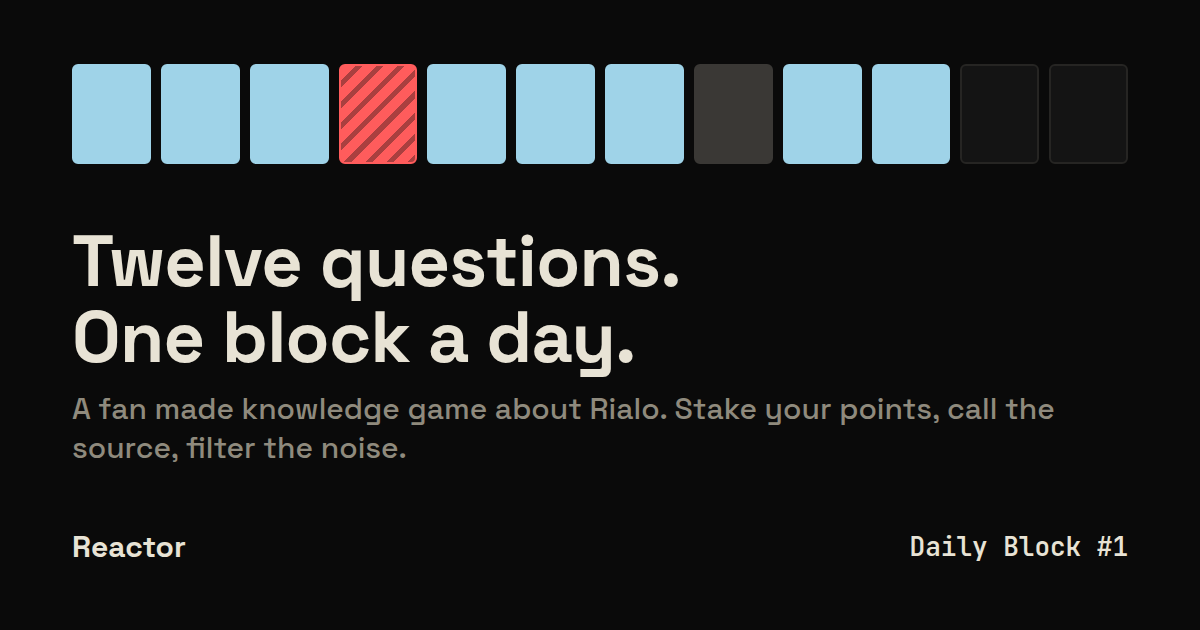
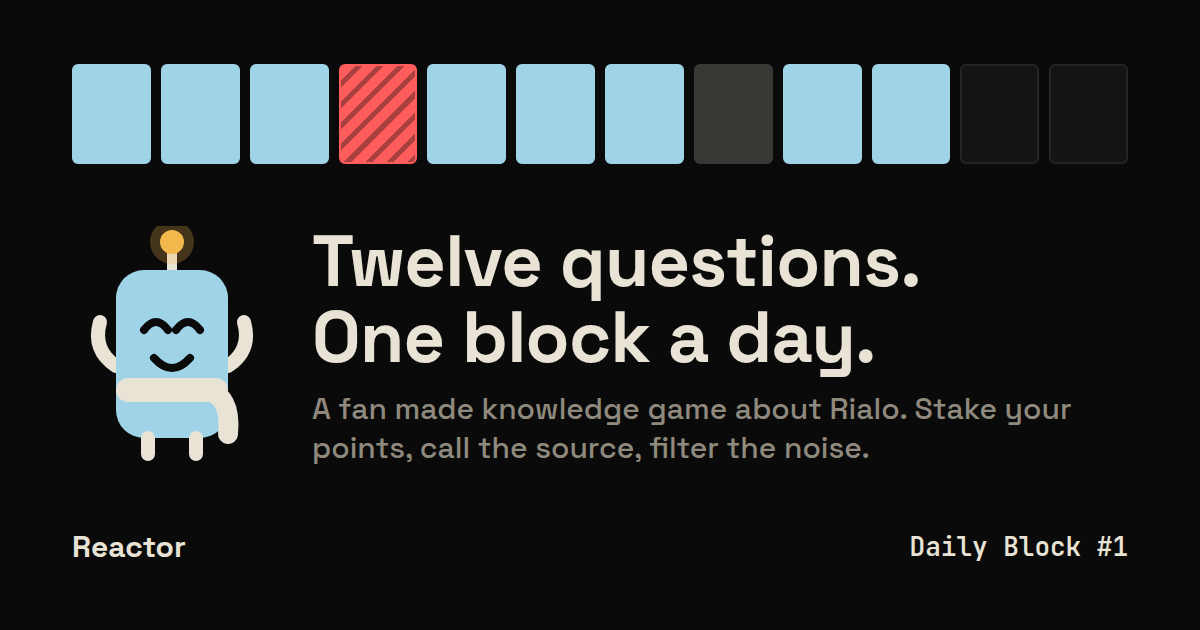
Kelvin, the mascot: a block cell come alive, on the home screen, the name dialog, the verdict sheet, the results and the share image

Changed region(s): [[0.0617, 0.3619, 0.8942, 0.754]]

diff --git a/src/app.js b/src/app.js
@@ -175,6 +175,34 @@
   $('theme-btn').onclick = () => applyTheme(document.documentElement.getAttribute('data-theme') === 'light' ? 'dark' : 'light');
   document.querySelectorAll('.lang button').forEach((b) => (b.onclick = () => { lang = b.dataset.lang; LS.set('lang', lang); applyLang(); if (!$('home').hidden) renderHome(); if (!$('atlas').hidden) renderAtlas(); }));
 
+
+  // ---------- Kelvin, the mascot ----------
+  // One cell of the Daily Block that came alive: glacier body like a landed transaction, a paper scarf for
+  // Subzero, rounded tube limbs, an antenna that lights up when a predicate turns true. Wrong answers turn it
+  // into the striped noise cell. Colours come from the theme tokens so it works in both themes.
+  function kelvin(mood) {
+    const paper = 'var(--paper)', ink = '#0a0a0a', glacier = '#9fd3e8', signal = '#ff5c5c', amber = '#f2b84b', faint = 'var(--faint)';
+    const noise = mood === 'noise', skip = mood === 'skip';
+    const bodyFill = noise ? signal : skip ? faint : glacier;
+    const body = `<rect x="22" y="22" width="56" height="84" rx="14" fill="${bodyFill}"/>`;
+    const stripes = noise ? `<clipPath id="kc"><rect x="22" y="22" width="56" height="84" rx="14"/></clipPath><g clip-path="url(#kc)" stroke="${ink}" stroke-width="4" opacity=".28"><path d="M10 40 l50 50 M10 60 l50 50 M10 80 l50 50 M30 20 l50 50 M50 20 l40 40"/></g>` : '';
+    let eyes;
+    if (mood === 'happy') eyes = `<path d="M36 52 q6 -8 12 0" stroke="${ink}" stroke-width="4" fill="none" stroke-linecap="round"/><path d="M52 52 q6 -8 12 0" stroke="${ink}" stroke-width="4" fill="none" stroke-linecap="round"/>`;
+    else if (noise) eyes = `<path d="M36 46 l10 10 M46 46 l-10 10 M54 46 l10 10 M64 46 l-10 10" stroke="${ink}" stroke-width="4" stroke-linecap="round"/>`;
+    else if (mood === 'think') eyes = `<rect x="36" y="44" width="9" height="13" rx="3" fill="${ink}"/><rect x="55" y="48" width="9" height="6" rx="3" fill="${ink}"/>`;
+    else if (mood === 'sleep') eyes = `<path d="M36 50 h10 M54 50 h10" stroke="${ink}" stroke-width="4" stroke-linecap="round"/>`;
+    else eyes = `<g class="k-eyes"><rect x="36" y="44" width="9" height="13" rx="3" fill="${ink}"/><rect x="55" y="44" width="9" height="13" rx="3" fill="${ink}"/></g>`;
+    const mouth = mood === 'happy' ? `<path d="M41 66 q9 10 18 0" stroke="${ink}" stroke-width="4" fill="none" stroke-linecap="round"/>` : noise ? `<path d="M42 70 q8 -7 16 0" stroke="${ink}" stroke-width="4" fill="none" stroke-linecap="round"/>` : mood === 'think' ? `<path d="M44 68 h10" stroke="${ink}" stroke-width="4" stroke-linecap="round"/>` : `<path d="M44 67 q6 4 12 0" stroke="${ink}" stroke-width="4" fill="none" stroke-linecap="round"/>`;
+    const scarf = `<rect x="22" y="76" width="56" height="12" rx="6" fill="${paper}"/><path d="M66 82 q14 2 12 22" stroke="${paper}" stroke-width="10" fill="none" stroke-linecap="round"/>`;
+    const antenna = `<path d="M50 22 v-10" stroke="${paper}" stroke-width="5" stroke-linecap="round"/><circle class="k-lamp" cx="50" cy="8" r="6" fill="${noise ? signal : mood === 'happy' ? amber : glacier}"/>${mood === 'happy' ? `<circle cx="50" cy="8" r="11" fill="${amber}" opacity=".25"/>` : ''}`;
+    const arms = mood === 'happy' ? `<path d="M22 70 q-12 -8 -8 -22" stroke="${paper}" stroke-width="7" fill="none" stroke-linecap="round"/><path d="M78 70 q12 -8 8 -22" stroke="${paper}" stroke-width="7" fill="none" stroke-linecap="round"/>`
+      : mood === 'think' ? `<path d="M22 62 q-12 4 -8 16" stroke="${paper}" stroke-width="7" fill="none" stroke-linecap="round"/><path d="M78 62 q10 6 -6 12" stroke="${paper}" stroke-width="7" fill="none" stroke-linecap="round"/>`
+      : `<path d="M22 62 q-12 6 -8 18" stroke="${paper}" stroke-width="7" fill="none" stroke-linecap="round"/><path d="M78 62 q12 6 8 18" stroke="${paper}" stroke-width="7" fill="none" stroke-linecap="round"/>`;
+    const legs = `<path d="M38 106 v8" stroke="${paper}" stroke-width="7" stroke-linecap="round"/><path d="M62 106 v8" stroke="${paper}" stroke-width="7" stroke-linecap="round"/>`;
+    const zz = mood === 'sleep' ? `<text x="80" y="30" font-family="JetBrains Mono,monospace" font-size="14" fill="${paper}">z</text><text x="88" y="18" font-family="JetBrains Mono,monospace" font-size="11" fill="${paper}">z</text>` : '';
+    return `<svg class="kelvin k-${mood}" viewBox="0 0 100 120" xmlns="http://www.w3.org/2000/svg" aria-hidden="true">${antenna}${arms}${body}${stripes}${scarf}${eyes}${mouth}${legs}${zz}</svg>`;
+  }
+
   // ---------- block strips ----------
   function drawBlock(el, cells, n, nowIndex) {
     el.innerHTML = '';
@@ -188,6 +216,7 @@
     const today = dayKeyOf(Date.now()), n = dailyNumber(today);
     $('daily-go').textContent = t('daily.play');
     drawBlock($('home-block'), [], DAILY_N, -1);
+    $('hero-kelvin').innerHTML = kelvin('idle');
     if (!me) { $('daily-sub').textContent = t('daily.noname', { n }); $('rankline').hidden = true; }
     else {
       $('daily-sub').textContent = t('daily.new', { n });
@@ -220,7 +249,7 @@
   $('home-link').onclick = (e) => { e.preventDefault(); stopTimer(); session = null; renderHome(); };
 
   // ---------- name ----------
-  function openName() { $('name-err').textContent = ''; $('name-input').value = me ? me.handle : ''; $('dlg-name').hidden = false; setTimeout(() => $('name-input').focus(), 50); return new Promise((res) => { nameResolve = res; }); }
+  function openName() { $('name-kelvin').innerHTML = kelvin('think'); $('name-err').textContent = ''; $('name-input').value = me ? me.handle : ''; $('dlg-name').hidden = false; setTimeout(() => $('name-input').focus(), 50); return new Promise((res) => { nameResolve = res; }); }
   let nameResolve = null;
   $('name-chip').onclick = () => openName();
   $('name-cancel').onclick = () => { $('dlg-name').hidden = true; if (nameResolve) nameResolve(false); };
@@ -346,6 +375,7 @@
   function showFeedbackText(q, rev, res) {
     const L = lang;
     const v = $('verdict'); v.className = 'verdict ' + (res.skipped ? '' : res.correct ? 'ok' : 'x');
+    $('verdict-kelvin').innerHTML = kelvin(res.skipped ? 'skip' : res.correct ? 'happy' : 'noise');
     $('verdict-text').textContent = res.skipped ? t('v.skip') : res.timeout ? t('v.timeout') : res.correct ? t('v.ok') : t('v.x');
     $('verdict-pts').textContent = res.skipped ? '' : res.gain ? '+' + fmt(res.gain) : res.penalty ? '−' + fmt(res.penalty) : '0';
     let why = rev.why[L];
@@ -460,6 +490,7 @@
     stopTimer(); session = null; board.cache = {};
     show('result');
     drawBlock($('result-block'), res.cells, res.n, -1);
+    $('result-kelvin').innerHTML = kelvin(res.correct >= 8 ? 'happy' : res.correct <= 3 ? 'noise' : 'idle');
     $('result-title').textContent = t('res.daily.title', { n: res.number });
     $('result-sub').textContent = t(res.rank ? 'res.daily.sub' : 'res.daily.sub.nr', { ok: res.correct, n: res.n });
     $('result-stats').innerHTML = stat(fmt(res.score), t('st.score')) + stat(res.bestStreak, t('st.streak')) + stat(mmss(res.timeMs), t('st.time'));
@@ -518,6 +549,7 @@
     if (isBest) LS.set('sprintBest', s.score);
     show('result');
     drawBlock($('result-block'), s.answers.map((a) => (a.correct ? 'ok' : 'x')), Math.max(12, s.answers.length), -1);
+    $('result-kelvin').innerHTML = kelvin(isBest && s.score > 0 ? 'happy' : ok >= s.answers.length / 2 ? 'idle' : 'noise');
     $('result-title').textContent = t('res.sprint.title') + (isBest && s.score > 0 ? ' · ' + t('res.sprint.best') : '');
     $('result-sub').textContent = t('res.sprint.sub', { answered: s.answers.length, ok });
     $('result-stats').innerHTML = stat(fmt(s.score), t('st.score')) + stat(s.bestStreak, t('st.streak')) + stat(fmt(Math.max(best, s.score)), lang === 'tr' ? 'en iyi' : 'best');
@@ -553,6 +585,7 @@
     const ok = s.answers.filter((a) => a.correct).length;
     show('result');
     drawBlock($('result-block'), s.cells, s.n, -1);
+    $('result-kelvin').innerHTML = kelvin(ok >= 7 ? 'happy' : 'think');
     $('result-title').textContent = t('res.atlas.title');
     $('result-sub').textContent = t('res.atlas.sub', { ok, n: s.n, topic: topicName(s.topic), pct: Math.round((100 * m) / all.length) });
     $('result-stats').innerHTML = stat(ok + '/' + s.n, t('st.correct')) + stat(m + '/' + all.length, lang === 'tr' ? 'öğrenilen' : 'mastered') + stat(s.bestStreak, t('st.streak'));

diff --git a/src/index.html b/src/index.html
@@ -176,6 +176,22 @@ table.board{width:100%;border-collapse:collapse;font-size:14px}
 .flash{animation:flash .4s}
 @keyframes flash{from{background:var(--flash)}}
 
+
+/* Kelvin */
+.herorow{display:flex;align-items:center;gap:14px}
+.kwrap{flex:0 0 auto;width:72px;height:86px}
+.kwrap.small{width:40px;height:48px}
+.kwrap svg{width:100%;height:100%;display:block}
+.k-idle{animation:bob 3.2s ease-in-out infinite}
+.k-happy{animation:hop .5s ease-out}
+.k-noise{animation:shake .35s}
+.k-idle .k-eyes{animation:blink 4.5s infinite}
+@keyframes bob{50%{transform:translateY(-3px)}}
+@keyframes hop{30%{transform:translateY(-8px)}}
+@keyframes blink{0%,94%,100%{transform:scaleY(1)}97%{transform:scaleY(.08)}}
+.k-eyes{transform-origin:50px 50px}
+.verdict{align-items:center}
+.verdict b{flex:1}
 /* result */
 .result{display:flex;flex-direction:column;gap:16px}
 .result h2{font-size:clamp(24px,6vw,30px)}
@@ -234,7 +250,7 @@ input.name{width:100%;min-height:46px;padding:10px 12px;border:1px solid var(--r
 
   <main id="home" class="hero">
     <div class="block" id="home-block" aria-hidden="true"></div>
-    <h1 data-t="home.title">Twelve questions. One block a day.</h1>
+    <div class="herorow"><div class="kwrap" id="hero-kelvin"></div><h1 data-t="home.title">Twelve questions. One block a day.</h1></div>
     <p class="sub mute" data-t="home.sub">Every question comes from Rialo's own posts and docs. Stake your points, call the source, filter the noise.</p>
     <p><a href="#" id="how-hero" class="howlink" data-t="how.link">How to play, in one minute</a></p>
     <div class="modes">
@@ -266,7 +282,7 @@ input.name{width:100%;min-height:46px;padding:10px 12px;border:1px solid var(--r
       <button class="life" id="life-handover" title="Handover"><svg viewBox="0 0 14 14" fill="none" stroke="currentColor" stroke-width="1.4"><path d="M1.5 7h8M7 4l3 3-3 3M11.5 2v10"/></svg><span data-t="life.handover">Handover</span></button>
     </div>
     <div class="feedback" id="feedback" hidden>
-      <div class="verdict" id="verdict"><b id="verdict-text"></b><span class="pts" id="verdict-pts"></span></div>
+      <div class="verdict" id="verdict"><span class="kwrap small" id="verdict-kelvin"></span><b id="verdict-text"></b><span class="pts" id="verdict-pts"></span></div>
       <p class="why" id="fb-why"></p>
       <blockquote class="quote" id="fb-quote"></blockquote>
       <button class="btn solid" id="next-btn" data-t="next">Next</button>
@@ -277,7 +293,7 @@ input.name{width:100%;min-height:46px;padding:10px 12px;border:1px solid var(--r
 
   <main id="result" class="result" hidden>
     <div class="block big" id="result-block" aria-hidden="true"></div>
-    <h2 id="result-title"></h2>
+    <div class="herorow"><div class="kwrap" id="result-kelvin"></div><h2 id="result-title"></h2></div>
     <p class="mute" id="result-sub"></p>
     <div class="stats" id="result-stats"></div>
     <p class="rankline" id="result-rank"></p>
@@ -294,7 +310,7 @@ input.name{width:100%;min-height:46px;padding:10px 12px;border:1px solid var(--r
 
 <div class="ov" id="dlg-name" hidden>
   <div class="sheet" role="dialog" aria-modal="true">
-    <h2 data-t="name.title">Pick your player name</h2>
+    <div class="herorow"><div class="kwrap small" id="name-kelvin"></div><h2 data-t="name.title">Pick your player name</h2></div>
     <p class="mute" data-t="name.sub">The Daily Block is one run per name per day, so the board needs to know who you are. Your name is kept on this device, no login.</p>
     <input class="name" id="name-input" maxlength="15" placeholder="ecamli" autocomplete="off" spellcheck="false">
     <p class="err" id="name-err"></p>

diff --git a/DESIGN.md b/DESIGN.md
@@ -9,3 +9,7 @@ The one memorable element is the block: twelve cells that fill as you answer, gl
 - Motion: a cell lands when you answer, the question shakes on a miss, the block flashes on a hit. Nothing moves on its own; reduced motion is respected.
 - Copy: plain verbs, the same word for the same thing everywhere (Daily Block, Sprint, Atlas, Webcall, Filter, Handover), explanations that teach rather than cheer.
 - Turkish is written as Turkish by a Turkish speaking crypto native, not translated word by word. Numbers stay in the source's notation.
+
+## Kelvin
+
+The mascot is one cell of the Daily Block that came alive: a glacier body like a landed transaction, a paper scarf (Subzero), rounded tube limbs and an antenna that lights up amber when it is happy. A wrong answer turns it into the striped noise cell with crossed eyes; a handover greys it out. It is drawn in code (`kelvin(mood)` in src/app.js) from the theme tokens, so it works in both themes and in the share image. Moods: idle (bobs, blinks), happy, noise, think, skip, sleep. It is an original character and does not use Rialo's logo or marks.
